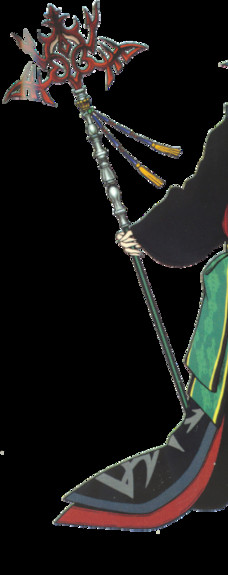
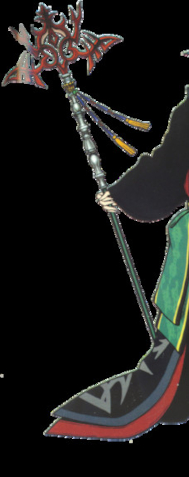
More css done, need to fix svg bubbles

diff --git a/style.css b/style.css
@@ -30,8 +30,94 @@ body {
 nav {
   min-height: 10vh;
   width: 90%;
-  margin: auto; /* adds 5% space on the left and right push Steven and burger towards middle */
+  margin: auto; /* adds 5% space on the left and right, pushing Steven and burger towards middle */
   display: flex;
   justify-content: space-between; /* shoves the burger to the far right */
   align-items: center;
+  padding: 20px 0;
+}
+
+.logo {
+  font-size: 20px;
+}
+
+.page {
+  min-height: 90vh;
+  display: grid;
+  grid-template-columns: 5% 1fr 1fr 1fr 5%; /*creates the 5% margin on both sides and creates three equal columns between the margins */
+}
+
+.hero {
+  overflow: hidden; /*Makes it so the image on the right doesn't hang over*/
+  heeeeeeight: 500px;
+  align-self: center;
+  justify-self: center;
+  display: flex;
+}
+
+.hero img {
+  height: 500px;
+  transition: transform 0.3s ease-out;
+  cursor: pointer;
+}
+
+.model-right {
+  /*the 0% is the x-axis and the 10% is the y, moving the image down */
+  transform: translate(0%, 10%);
+}
+
+.model-left {
+  transform: translate(0%, -10%);
+}
+
+.hero:hover .model-right {
+  transform: translate(0%, 0%);
+}
+
+.hero:hover .model-left {
+  transform: translate(0%, 0%);
+}
+
+.details {
+  grid-column: 2/3; /* pushes the seymour text to the 1st column and the image goes to the next and it centered */
+  align-self: end;
+}
+
+.details h1 {
+  font-size: 64px;
+  font-family: PopRegular;
+}
+
+.details h2 {
+  font-size: 42px;
+  padding: 20px 0px; /*Adds space on the top/bottom of the (maester, guardian, summoner) */
+}
+
+.details p {
+  font-size: 24px;
+  padding: 20px 0px 50px 0px;
+}
+
+.pages {
+  position: absolute;
+  right: 5%;
+  top: 50%;
+  transform: translateY(-50%);
+}
+
+.pages > div {
+  display: flex;
+  align-items: center;
+  justify-content: space-between;
+}
+
+.pages h3 {
+  font-size: 24px;
+  padding: 30px;
+}
+
+.pages svg {
+  cursor: pointer;
+  opacity: 0.5;
+  transform: scale(2);
 }

diff --git a/index.html b/index.html
@@ -14,7 +14,7 @@
                 <img src="./images/burgerLogo.jpg" alt="burger">
             </nav>
             <main>
-                <section class="seymour">
+                <section class="page seymour">
                     <div class="details">
                         <h1>Seymour Guado</h1>
                         <h2>Maester</h2>
@@ -25,7 +25,7 @@
                         <img class="model-right" src="./images/splitSeymour/seymourRight.jpg" alt="rightSideOfSeymour">
                     </div>
                 </section>
-                <section class="tidus">
+                <section class="page tidus">
                     <div class="details">
                         <h1>Tidus</h1>
                         <h2>Guardian</h2>
@@ -36,7 +36,7 @@
                         <img class="model-right" src="./images/splitTidus/tidusRight.jpg" alt="rightSideOfYuna">
                     </div>
                 </section>
-                <section class="yuna">
+                <section class="page yuna">
                     <div class="details">
                         <h1>Yuna</h1>
                         <h2>Summoner</h2>
